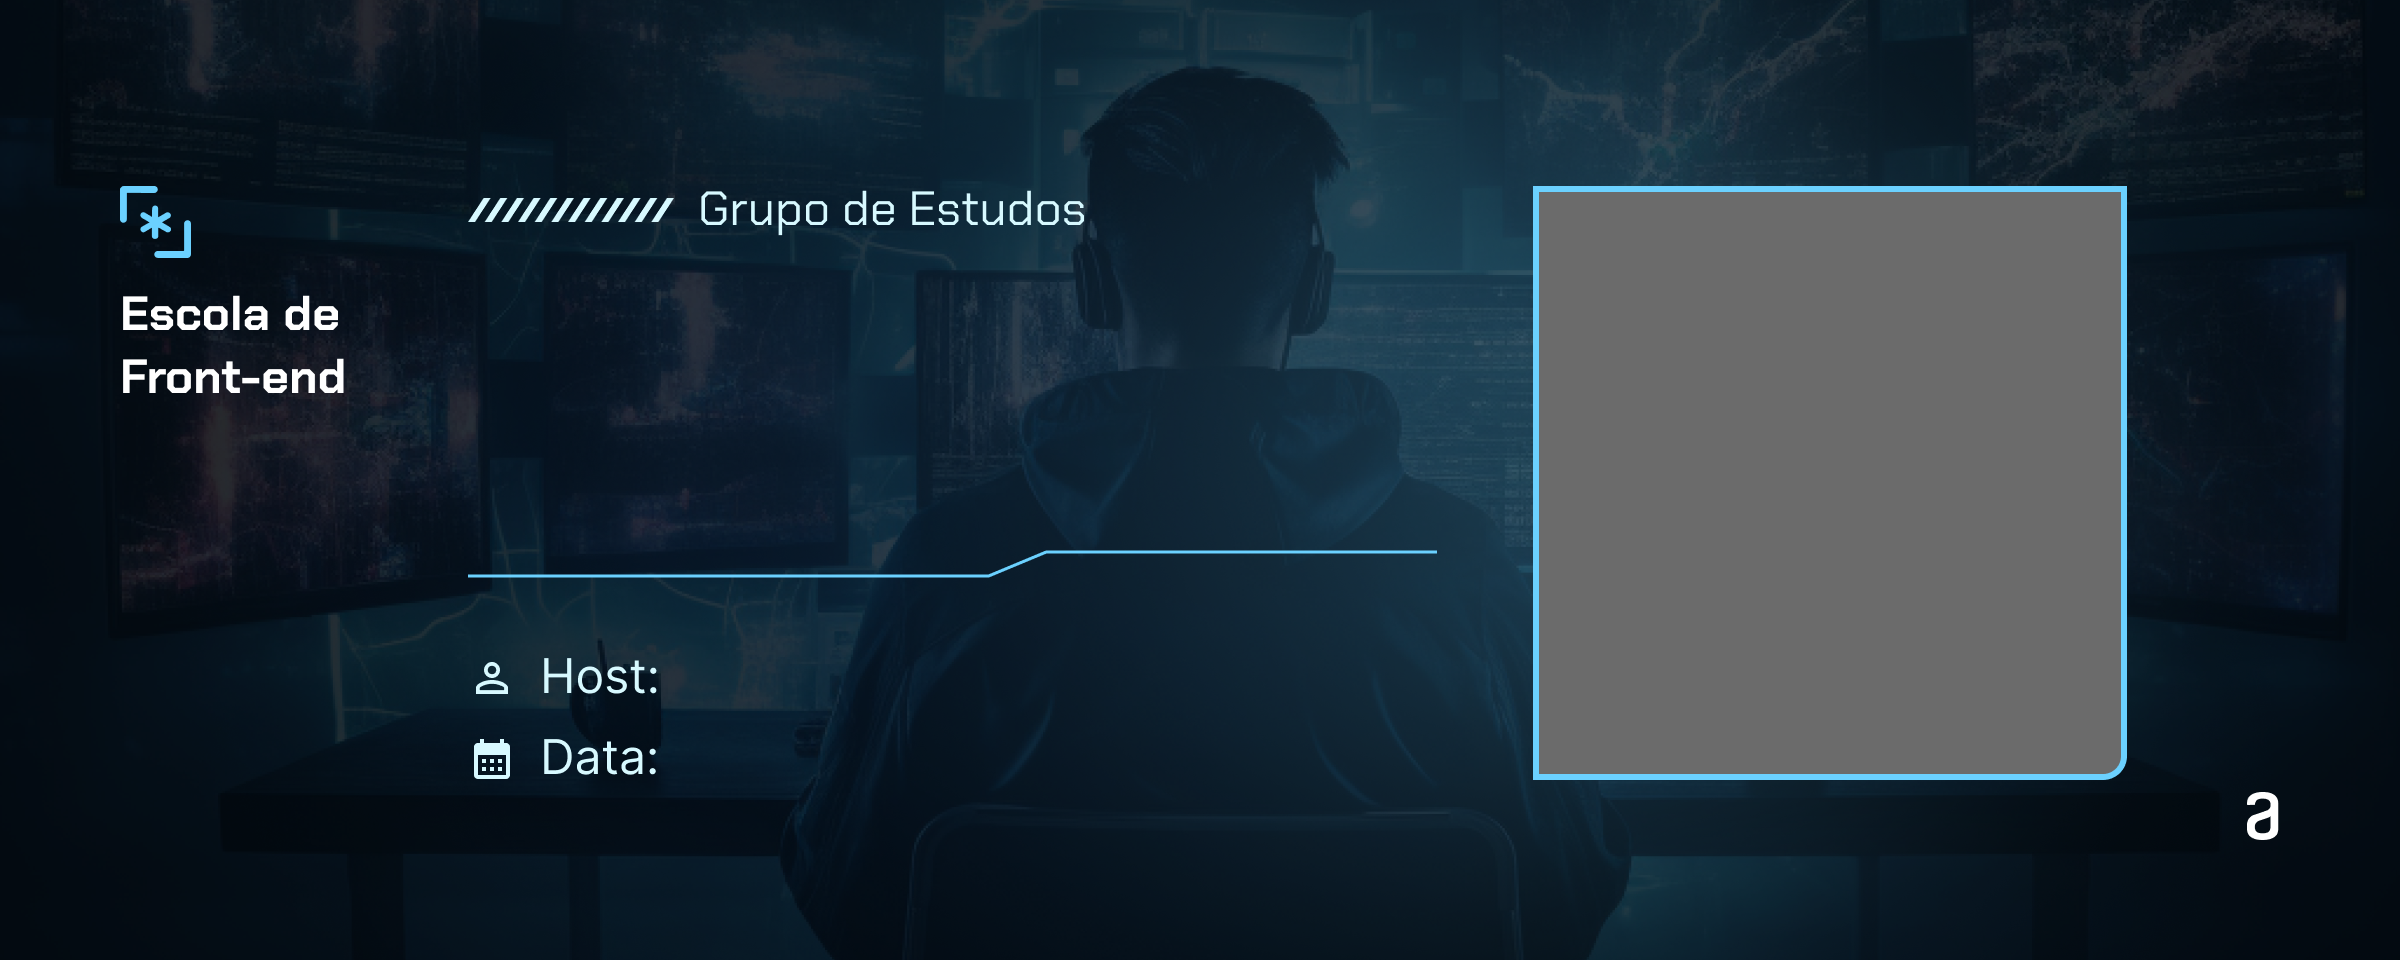
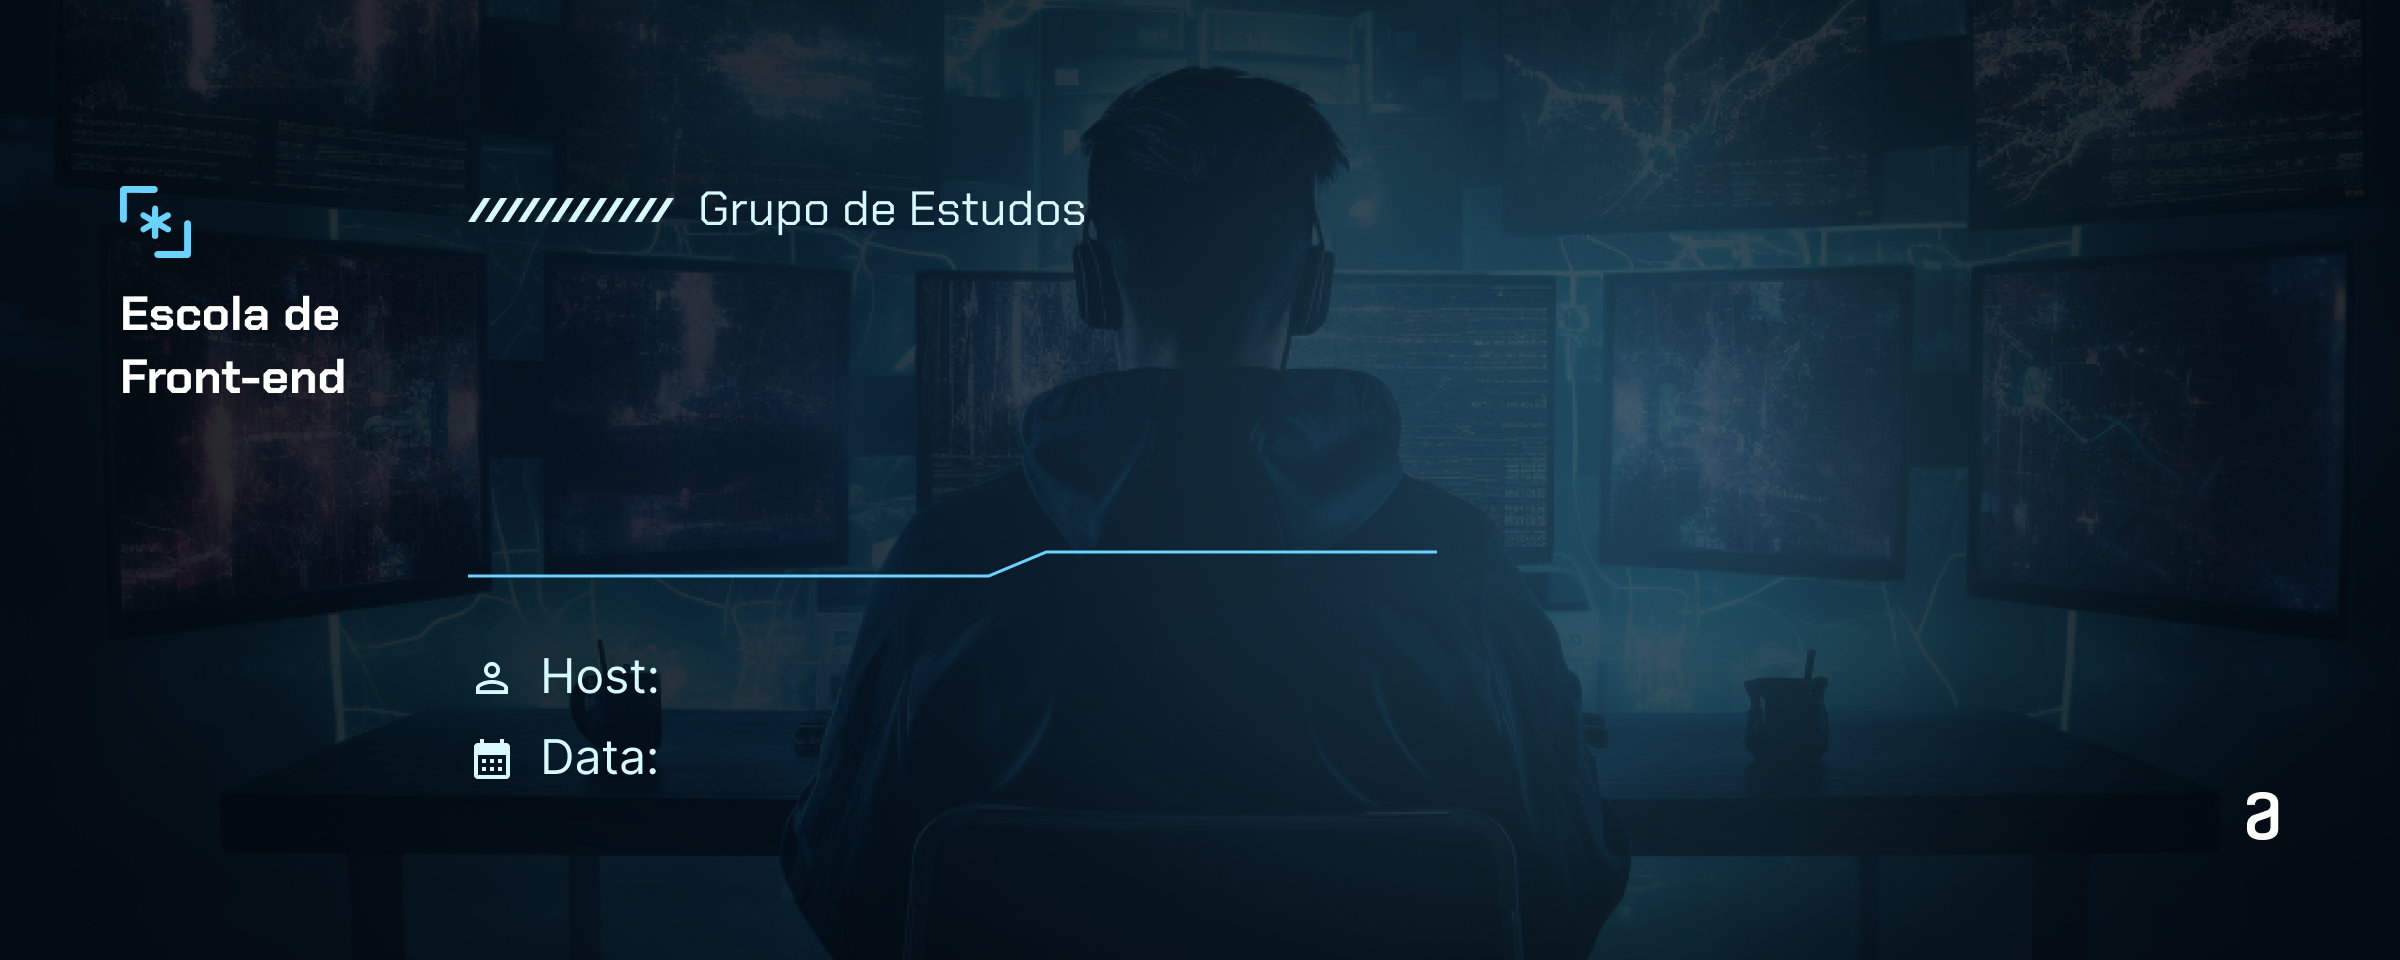
bordar e limites

Changed region(s): [[0.625, 0.1875, 0.9062, 0.8125]]

diff --git a/src/pages/grupo-estudos.tsx b/src/pages/grupo-estudos.tsx
@@ -65,6 +65,7 @@ export default function StudyGroup() {
           fontSize: '1.7rem',
           top: '10.5rem',
           left: '2rem',
+          maxWidth: '430px',
         },
         subTitle1: {
           fontSize: '1rem',
@@ -97,6 +98,7 @@ export default function StudyGroup() {
           fontSize: '0.95rem',
           top: '10rem',
           left: '1.5rem',
+          maxWidth: '230px',
         },
         subTitle1: {
           fontSize: '0.8rem',
@@ -162,7 +164,7 @@ export default function StudyGroup() {
             width={450} 
             height={450} 
             className={styles.person} 
-            style={types[selectedType].styles.person}
+            style={{...types[selectedType].styles.person, borderColor: escola?.colorTitle}}
             onClick={() => chooseFileFromComputer(setImagePerson)}
           />
         </div>

diff --git a/src/styles/GrupoEstudos.module.css b/src/styles/GrupoEstudos.module.css
@@ -41,7 +41,7 @@
   top: 8.5rem;
   left: 11.5rem;
   width: 100%;
-  max-width: 430px;
+  max-width: 400px;
 
   word-wrap: break-word;      /* IE 5.5-7 */
   white-space: -moz-pre-wrap; /* Firefox 1.0-2.0 */
@@ -73,8 +73,12 @@
 }
 
 .person {
+  background: #d9d9d9;
   width: 233px;
   height: 233px;
+  border-width: 3px;
+  border-style: solid;
+  border-color: #FFBA05;
   position: absolute;
   bottom: 75px;
   right: 112px;
